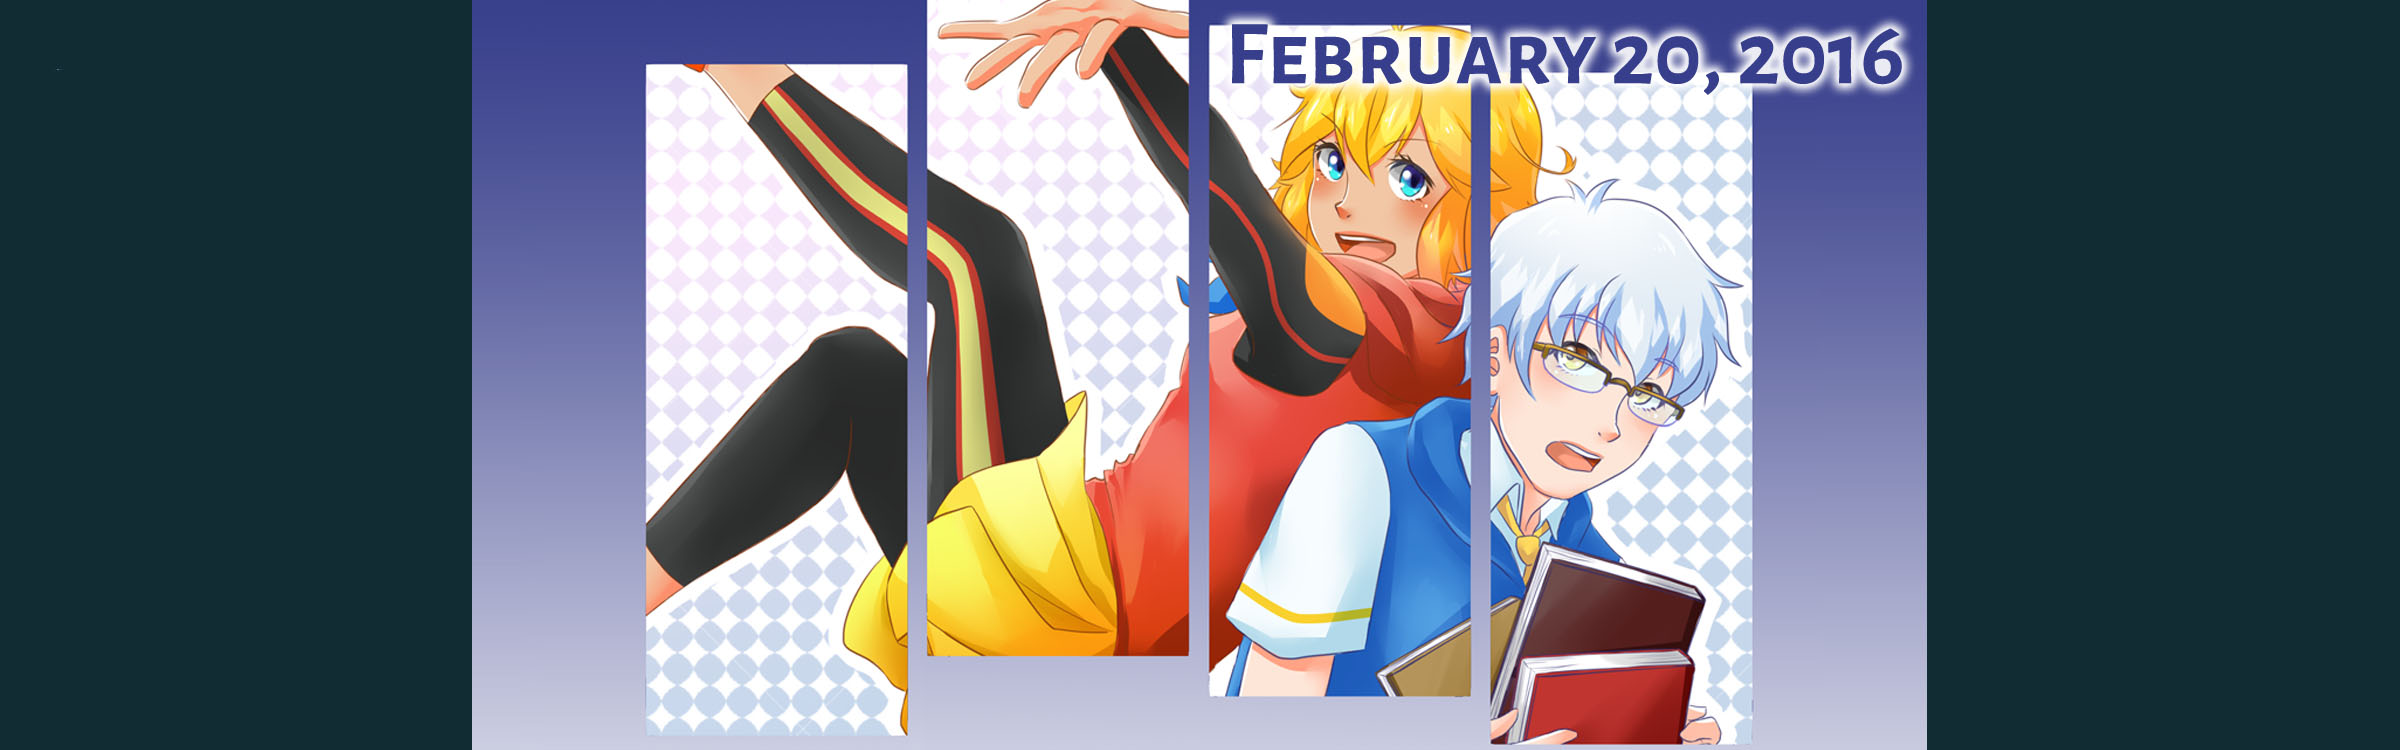
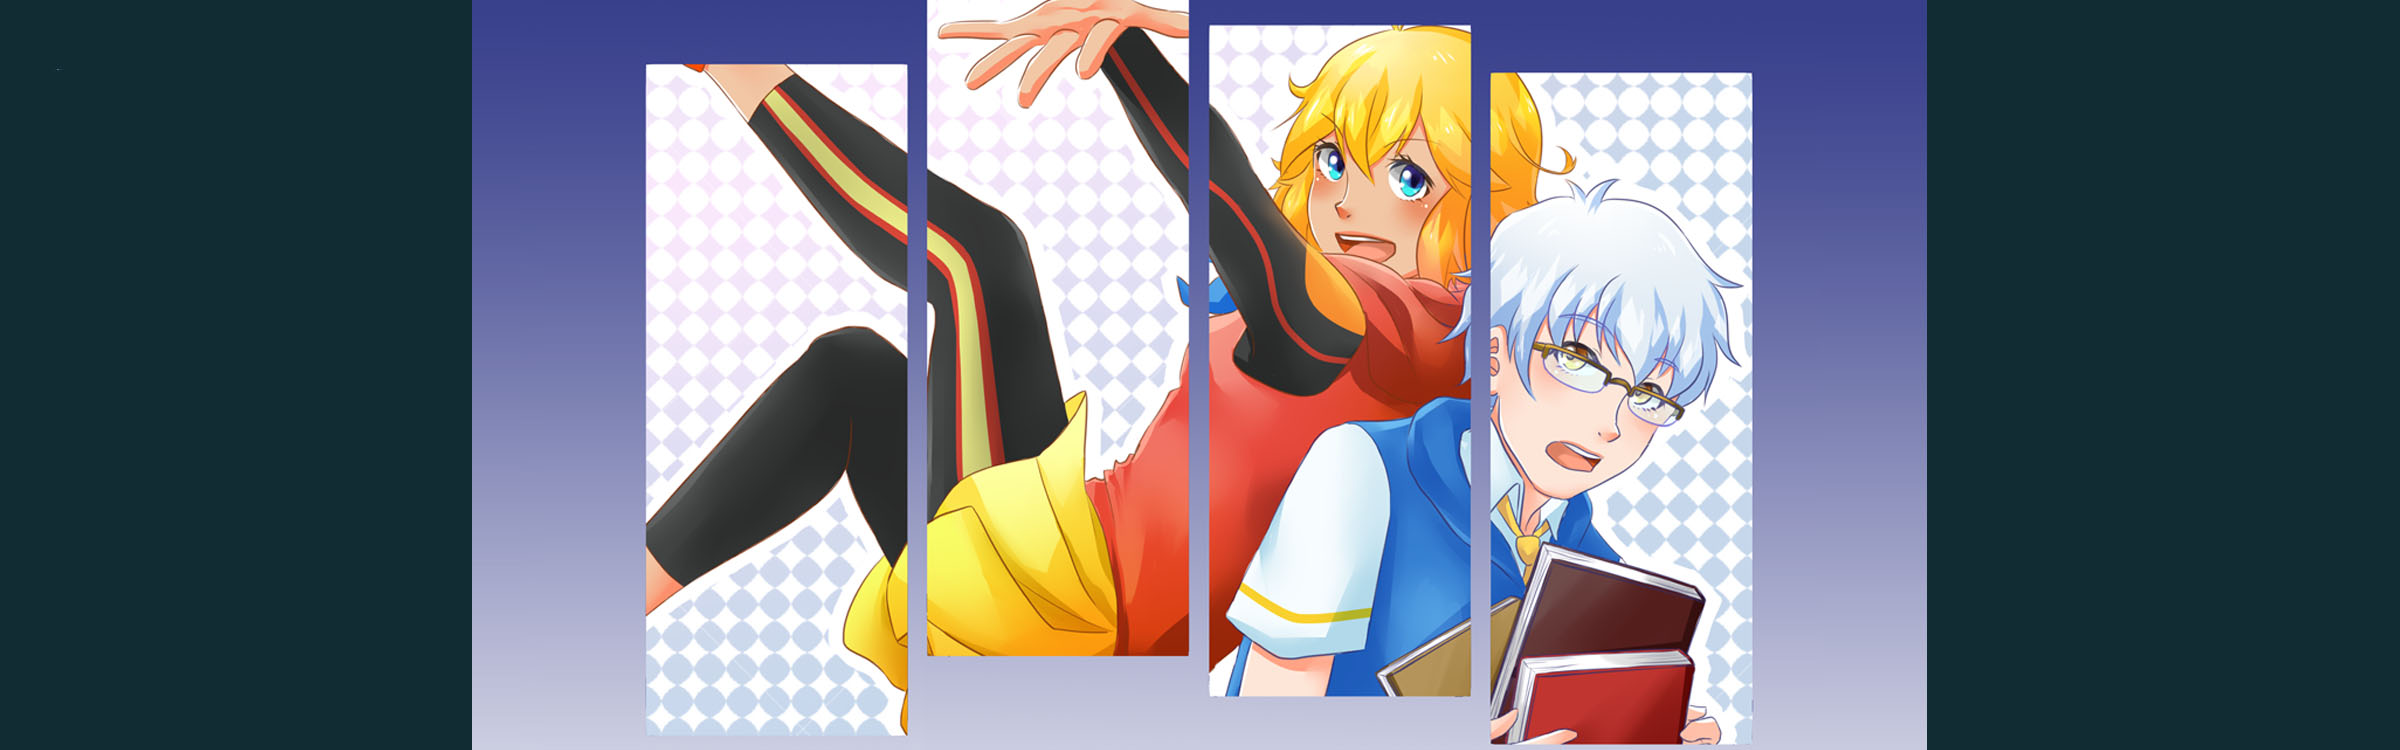
Fixing slider images

Changed region(s): [[0.5, 0.0, 0.8125, 0.1227]]

diff --git a/index.html b/index.html
@@ -92,7 +92,7 @@
                         </div>
                     </div>
                 </div><!--/.item-->
-                <div class="item" style="background-image: url(images/slider/bg3.jpg)">
+                <div class="item" style="background-image: url(images/slider/AA2.jpg)">
                     <div class="container">
                         <div class="row">
                             <div class="col-sm-6">
